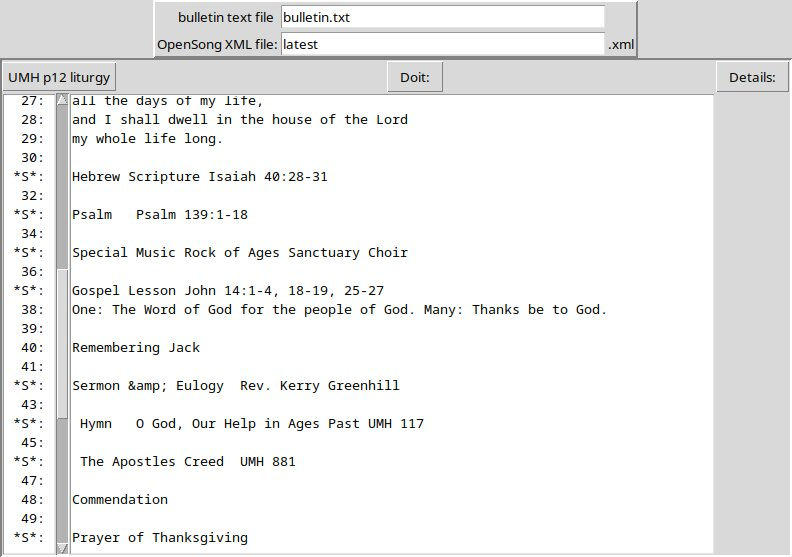
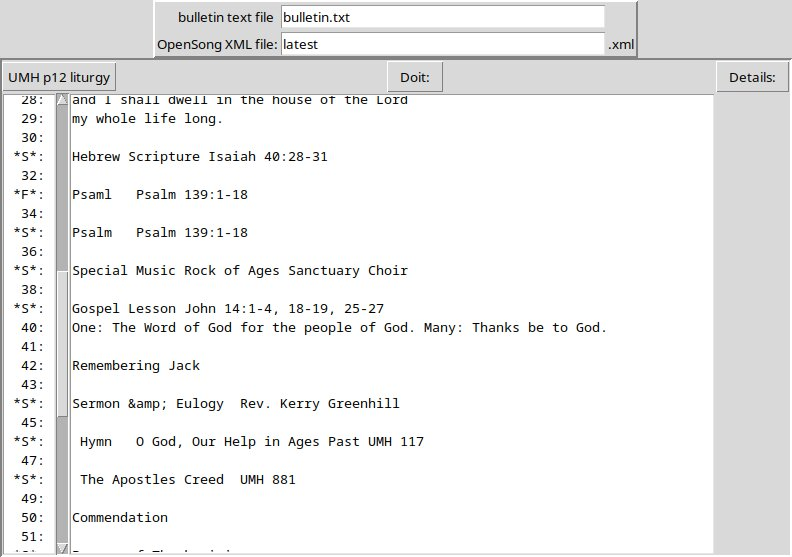
Add files via upload

Changed region(s): [[0.0909, 0.1526, 0.7576, 0.9767], [0.0303, 0.1526, 0.0606, 0.9767]]

diff --git a/README.md b/README.md
@@ -23,3 +23,7 @@ Slides, like "Hymn" use the info to generate more than just the simple text in t
 
 When the set is opened in the OpenSong editor, stuff that 
 the script was not smart enough to include can be copied and pasted from here.
+The script is not terribly smart. If something is not exactly what is is looking for, but maybe close
+it will flag it but not generate a slide for it. 
+Notice that the Psalm was included twice, but misspelled the first time. 
+The script marked that line with "F" in the left margin.
